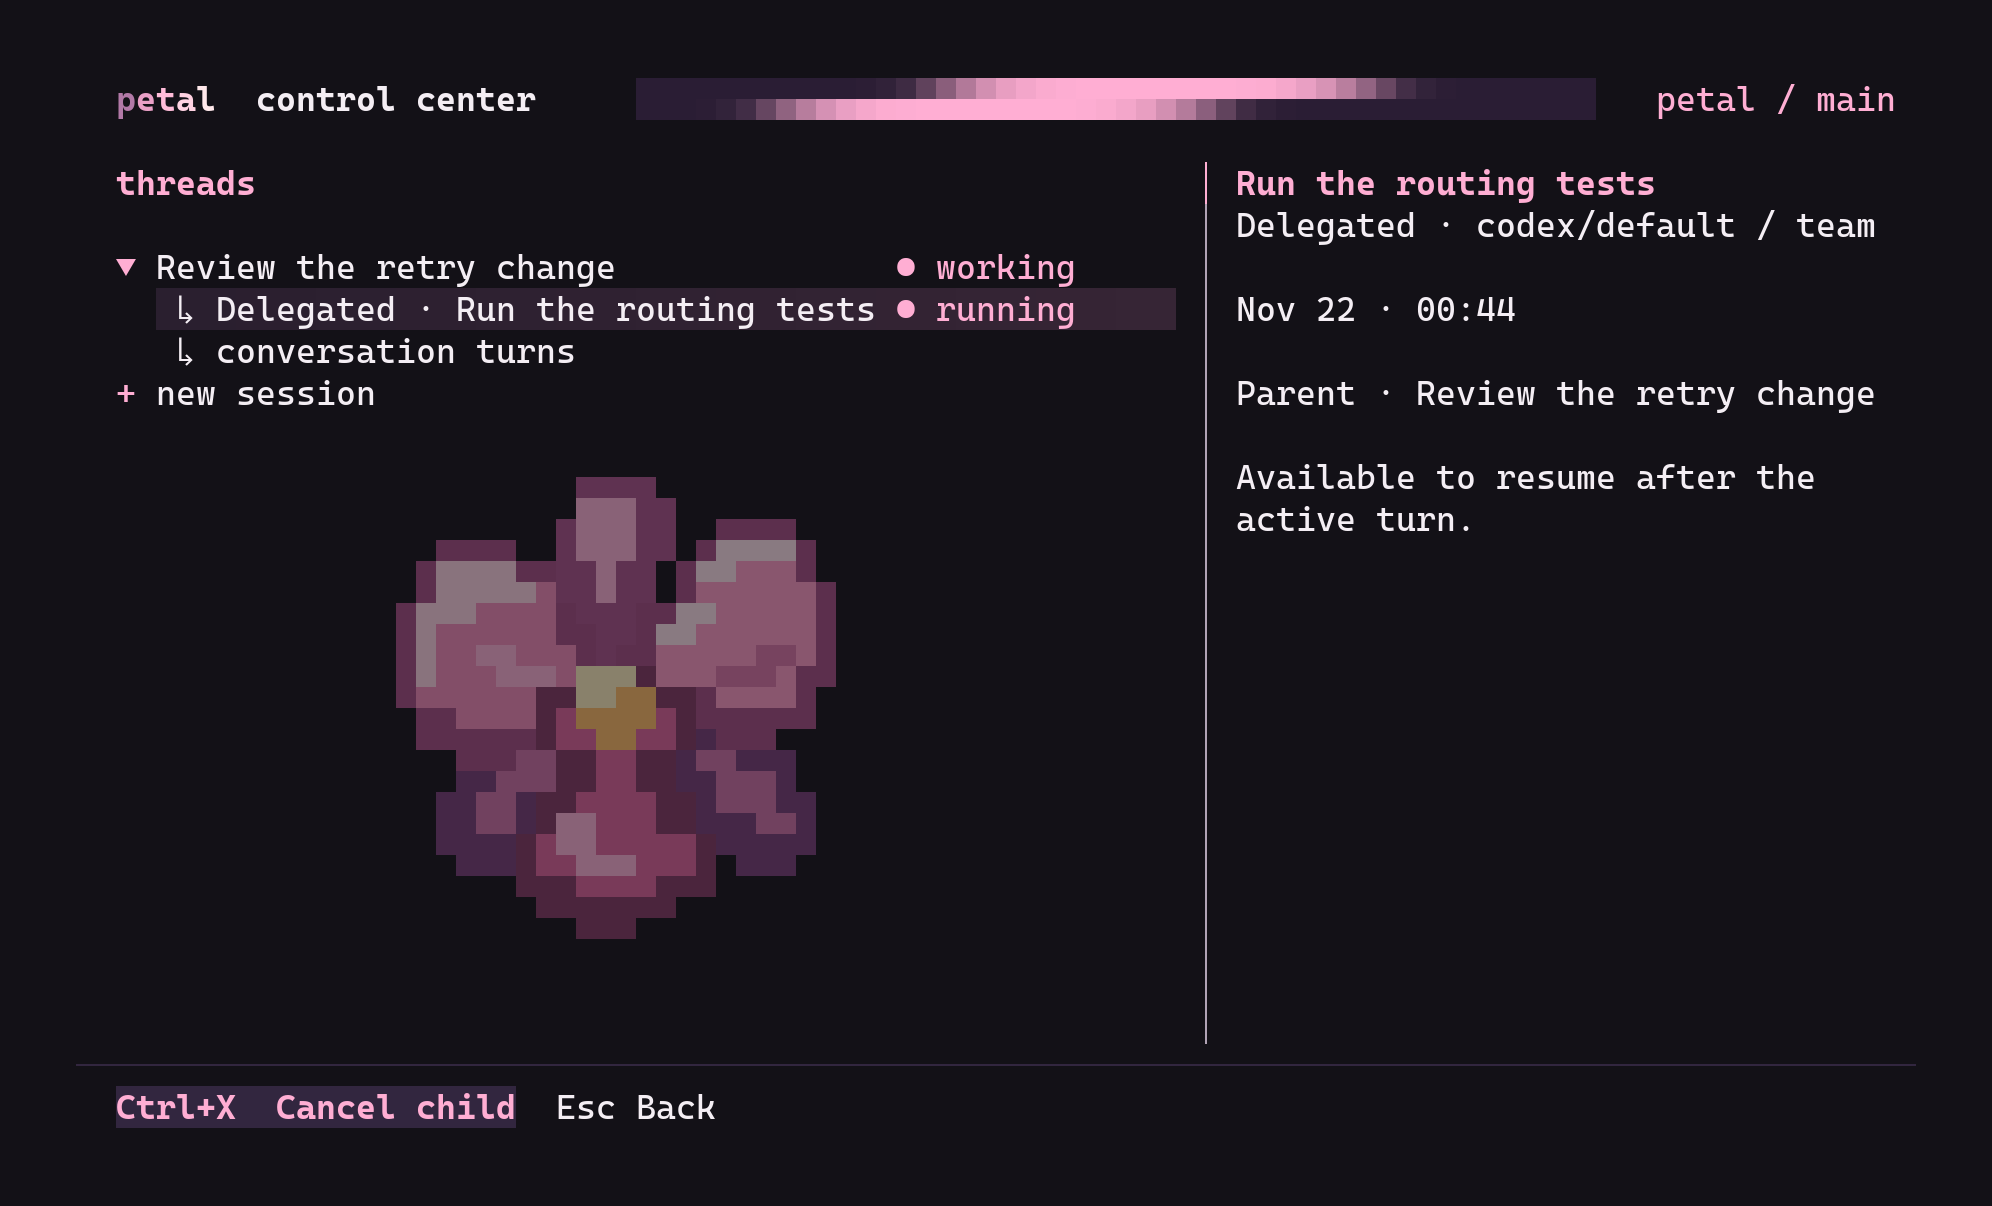
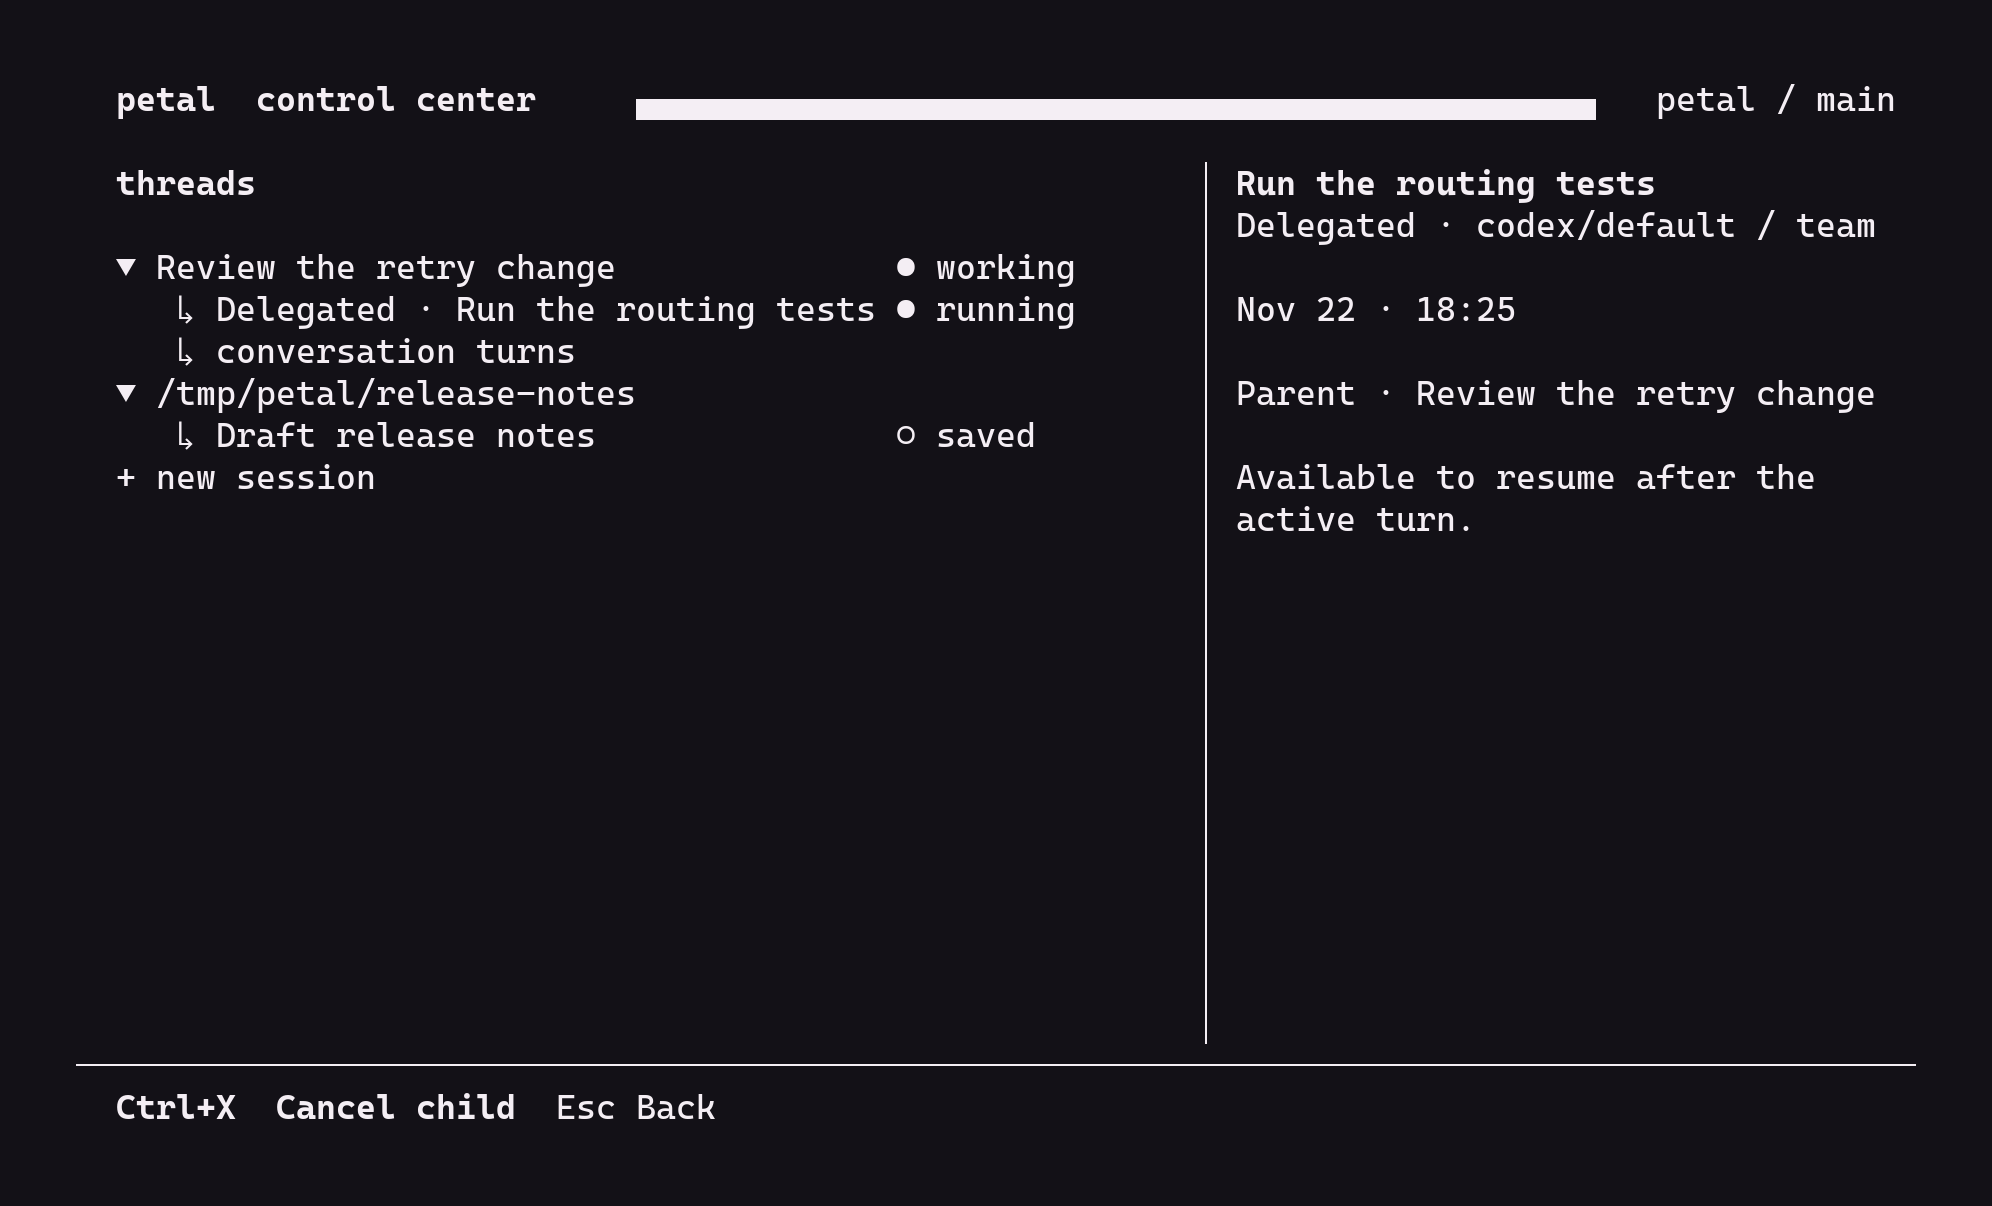
docs(demo): record model selection and threads across projects

diff --git a/scripts/demo/record.py b/scripts/demo/record.py
@@ -6,7 +6,7 @@ The output holds the timed frames of the workbench session and three named
 stills. render.py turns it into the GIF and the screenshots.
 """
 
-import glob
+import hashlib
 import json
 import os
 import shutil
@@ -27,15 +27,16 @@ TMUX = ["tmux", "-L", "petal-demo", "-f", "/dev/null"]
 def write_config(root):
     """Two Claude accounts with different quota, and one Codex account."""
     accounts = [
-        ("work", "claude/default", "parent", 30, 5),
-        ("personal", "claude/default", "parent", 90, 1),
-        ("team", "codex/default", "child", 80, 1),
+        ("work", "claude", "parent", 30, 5),
+        ("personal", "claude", "parent", 90, 1),
+        ("team", "codex", "child", 80, 1),
     ]
     lines = ['[history.embeddings]', 'provider = "off"', ""]
-    for name, model, role, quota_left, capacity in accounts:
+    for name, provider, role, quota_left, capacity in accounts:
         lines += [
             "[[accounts]]",
             f'name = "{name}"',
+            f'provider = "{provider}"',
             f"capacity = {capacity}",
             f'usage = ["echo", "{quota_left}"]',
             "[[accounts.env]]",
@@ -44,9 +45,6 @@ def write_config(root):
             "[[accounts.env]]",
             'name = "DEMO_CHILD_MODEL"',
             'value = "codex/default"',
-            "[[accounts.models]]",
-            f'id = "{model}"',
-            f'command = ["python3", "{AGENT}"]',
             "",
         ]
     config = root / "config.toml"
@@ -61,15 +59,19 @@ def isolated_path(root, petal):
     (bin_directory / "petal").symlink_to(petal)
     for tool in ("python3", "git", "echo"):
         (bin_directory / tool).symlink_to(shutil.which(tool))
+    for name in ("codex-acp", "claude-agent-acp"):
+        (bin_directory / name).symlink_to(AGENT.resolve())
+    for name in ("claude", "codex"):
+        (bin_directory / name).symlink_to(Path(__file__).with_name("provider.py").resolve())
     return bin_directory
 
 
 class Session:
     """One Petal process in a detached tmux window."""
 
-    def __init__(self, root, petal, config):
-        self.state = root / f"state-{time.monotonic_ns()}"
-        self.state.mkdir()
+    def __init__(self, root, petal, config, state, project):
+        self.state = state
+        self.project = project
         self.frames = []
         self.stills = {}
         self.started = time.monotonic()
@@ -81,11 +83,11 @@ class Session:
             "XDG_CONFIG_HOME": str(root / "config"),
             "PATH": str(root / "bin"),
         }
-        command = ["new-session", "-d", "-s", "demo", "-x", str(COLUMNS), "-y", str(ROWS), "-c", str(PROJECT)]
+        command = ["new-session", "-d", "-s", "demo", "-x", str(COLUMNS), "-y", str(ROWS), "-c", str(project)]
         for name, value in environment.items():
             command += ["-e", f"{name}={value}"]
         # Petal only emits 24-bit color when it does not detect tmux.
-        launch = f"env -u TMUX -u TMUX_PANE TERM=xterm-256color {petal} --config {config}"
+        launch = f"env -u TMUX -u TMUX_PANE TERM=xterm-256color PATH={root}/bin {petal} --config {config}"
         started = self.tmux(*command, launch)
         if started.returncode != 0:
             raise RuntimeError(started.stderr)
@@ -131,7 +133,8 @@ class Session:
 
     def title_child(self, title):
         """Petal leaves a delegated child untitled. Title it so the thread tree reads well."""
-        database = sqlite3.connect(glob.glob(f"{self.state}/petal/conversations/*/index.sqlite")[0], timeout=5)
+        project_key = hashlib.sha256(os.fsencode(self.project)).hexdigest()
+        database = sqlite3.connect(self.state / "petal/conversations" / project_key / "index.sqlite", timeout=5)
         database.execute("update sessions set title = ? where title = ''", (title,))
         database.commit()
         database.close()
@@ -141,7 +144,9 @@ class Session:
 
 
 def start_review(session):
-    session.wait_for("control center")
+    session.wait_for("Draft release notes")
+    session.wait_for("gpt-6.2-sol")
+    session.wait_for("claude-opus-5-5")
     session.record(1.8)
     session.press("Enter", 1.0)
     session.press("Tab", 2.6)  # Show the accounts and their quota.
@@ -193,7 +198,21 @@ def main():
         isolated_path(root, petal)
         stills = {}
         for scene in (record_commands, record_workbench):
-            session = Session(root, petal, config)
+            state = root / f"state-{scene.__name__}"
+            state.mkdir()
+            notes = PROJECT / "release-notes"
+            notes.mkdir(exist_ok=True)
+            seed = Session(root, petal, config, state, notes)
+            try:
+                seed.wait_for("claude-opus-5-5")
+                seed.press("C-n")
+                seed.wait_for("ready")
+                seed.type("Draft release notes")
+                seed.press("Enter")
+                seed.wait_for("Release draft saved")
+            finally:
+                seed.close()
+            session = Session(root, petal, config, state, PROJECT)
             try:
                 scene(session)
             finally:

diff --git a/scripts/demo/agent.py b/scripts/demo/agent.py
@@ -1,3 +1,4 @@
+#!/usr/bin/env python3
 """Scripted ACP v1 agent for the demo recording.
 
 Petal starts one copy per account. DEMO_ROLE selects the part to play. The
@@ -138,7 +139,9 @@ def quote_original_output(session_id):
 
 
 def answer_as_parent(session_id, prompt, request_id):
-    if "second opinion" in prompt:
+    if prompt == "Draft release notes":
+        say(session_id, "Release draft saved.")
+    elif "second opinion" in prompt:
         delegate_review(session_id)
     elif "exactly" in prompt:
         quote_original_output(session_id)
@@ -177,7 +180,7 @@ def main():
             prompt = " ".join(block.get("text", "") for block in params.get("prompt", []))
             if ROLE == "parent" and session_id not in titled_sessions:
                 titled_sessions.add(session_id)
-                update(session_id, {"sessionUpdate": "session_info_update", "title": "Review the retry change"})
+                update(session_id, {"sessionUpdate": "session_info_update", "title": "Draft release notes" if prompt == "Draft release notes" else "Review the retry change"})
             answer = answer_as_parent if ROLE == "parent" else answer_as_child
             threading.Thread(target=answer, args=(session_id, prompt, request_id), daemon=True).start()
         elif request_id is not None and method:

diff --git a/scripts/demo/provider.py b/scripts/demo/provider.py
@@ -1,0 +1,22 @@
+#!/usr/bin/env python3
+"""Offline provider metadata for the recorded Petal session."""
+
+import json
+import sys
+
+if sys.argv[1:3] == ["debug", "models"]:
+    print(json.dumps({"models": []}))
+else:
+    for line in sys.stdin:
+        request = json.loads(line)
+        if request.get("type") == "control_request":
+            reply = {"type": "control_response", "response": {
+                "request_id": request["request_id"], "subtype": "success",
+                "response": {"applied": {"model": "claude-opus-5-5"}},
+            }}
+        elif "id" in request:
+            result = {"config": {"model": "gpt-6.2-sol"}} if request["method"] == "config/read" else {}
+            reply = {"id": request["id"], "result": result}
+        else:
+            continue
+        print(json.dumps(reply), flush=True)

diff --git a/README.md b/README.md
@@ -10,7 +10,7 @@ Petal is a unified workbench for agents. It runs Claude Code and Codex in one te
 - **Route.** Petal [load balances](docs/configuration.md#route-across-subscriptions) across your work and personal subscriptions. Each new session starts on the account with the most quota left.
 - **Integrate.** Run `petal acp` to add the same orchestration, memory, and routing to [any editor](docs/editors.md) that speaks the [Agent Client Protocol](https://agentclientprotocol.com/).
 
-![A Petal session. Petal picks the work account for Claude. Claude delegates a test run to Codex, which runs as a child in the control center and then completes. Claude reports the bug, then searches the saved transcript and quotes the original failing test output.](docs/screenshots/workbench.gif)
+![The control center shows the resolved Claude and Codex models and a saved thread from another project. Petal picks the work account for Claude. Claude delegates a test run to Codex, which runs as a child in the control center and then completes. Claude reports the bug, then searches the saved transcript and quotes the original failing test output.](docs/screenshots/workbench.gif)
 
 Petal does not replace the Claude Code or Codex CLI. Each model runs in its vendor's CLI, and Petal controls that CLI through standard, supported APIs. Using Petal does not violate the vendor's terms of service.
 
